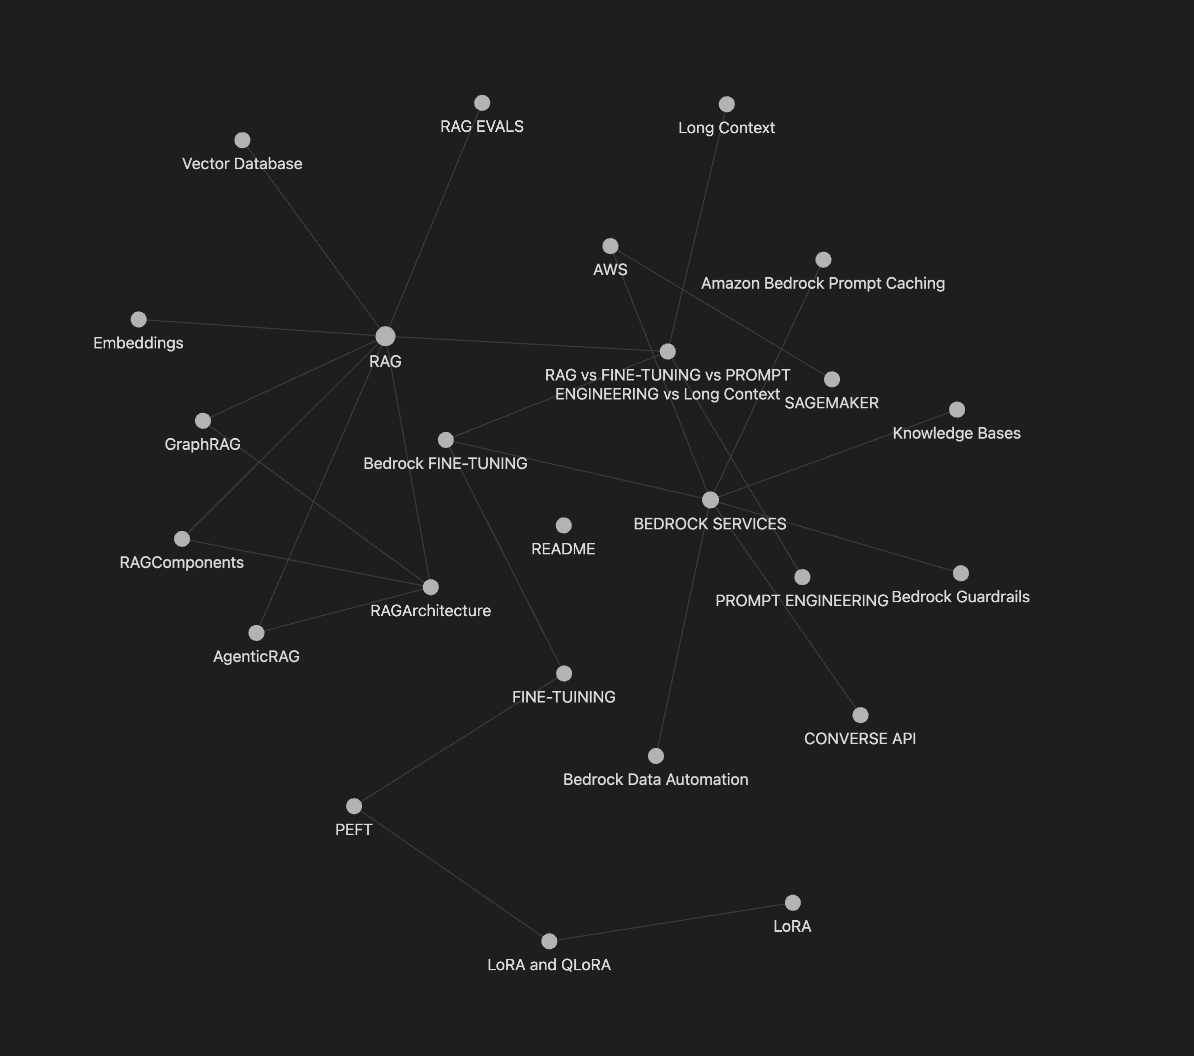
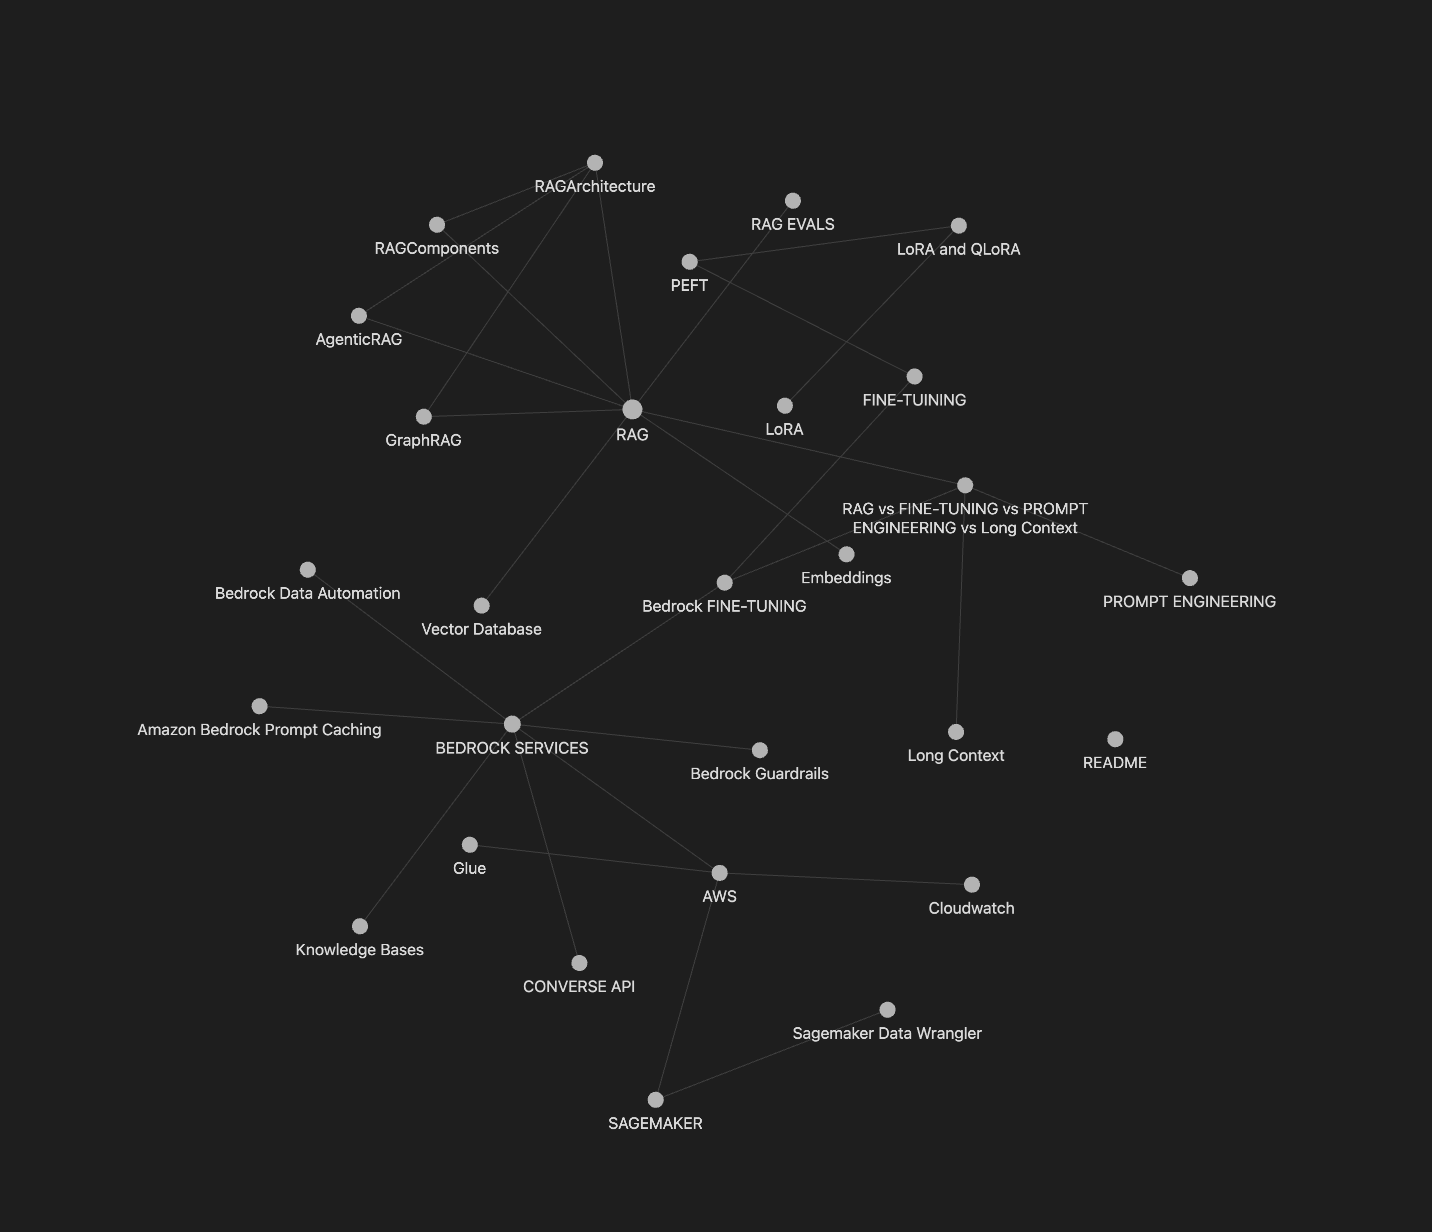
Add Cloudwatch, Glue, SageMaker Data Wrangler; update AWS and SageMaker notes and graph

diff --git a/CLOUD-CONCEPTS/Cloudwatch.md b/CLOUD-CONCEPTS/Cloudwatch.md
@@ -1,0 +1,16 @@
+Main AWS tool for monitoring and observability. Provides metrics for all services in AWS. The metrics from CW can be streamed near real-time through Amazon Kinesis Data Firehose to any internal/external tool of choice including Datadog/Splunk/Sumo Logic/Redshift/Opensearch etc.. You can filter all/or some namespaces.
+**Composite Alarms:** Combine multiple alarms into one to reduce "alarm noise" (e.g., alert only if _both_ CPU and IOPS are high)
+
+Components
+1. Metrics: Tracks variables over time, such as CPU utilization or network traffic. For GenAI, it monitors **token usage** (Input/OutputTokenCount), invocation latency, and error rates
+2. **Logs:** Collects and stores logs from services like Bedrock, Lambda, and SageMaker. **CloudWatch Logs Insights** allows you to query these logs using a purpose-built language to find specific errors or patterns
+3. **Alarms:** Triggers notifications or automated actions (like scaling) when a metric exceeds a threshold.
+4. **Dashboards:** Provides unified visualizations of your metrics and alarms for real-time monitoring
+
+**Role in GenAI Development**
+
+- **Observability:** Essential for tracking model behavior, user feedback, and security events across all application layers.
+- **Performance Tuning:** Helps identify bottlenecks like **Time to First Token (TTFT)** or high latency in RAG pipelines 
+- **Cost Management:** Monitors token consumption to detect anomalies and attribute costs using Bedrock metrics.
+- **Model Evaluation:** Integrates with services like **SageMaker Model Monitor** to detect data or bias drift in production models
+

diff --git a/CLOUD-CONCEPTS/Glue.md b/CLOUD-CONCEPTS/Glue.md
@@ -1,0 +1,6 @@
+1. Serverless system handles discovery and definitions. Is a central metadata repository for the data lakes. Extracts structure from unstructured data
+2. Used for custom ETL jobs, fully managed. Uses Apache Spark under the hood, since it is fully managed no need to manage the Spark cluster.
+
+Components
+1. Glue Crawler/Catalog: Can scan S3 buckets for unstructured data, infer the metadata, this allows Redshift/Athena/Quicksight to query unstrucutred data as structured data. Partitioning in S3 determines how Glue extracts the metadata
+2. Glue Data Quality: Rules can be created manually or automatically. Uses Data Qulaity Definition Language(DQDL)

diff --git a/CLOUD-CONCEPTS/AWS.md b/CLOUD-CONCEPTS/AWS.md
@@ -2,6 +2,9 @@
 
  [[BEDROCK SERVICES]]
  [[SAGEMAKER]]
+ [[Glue]]
+ [[Cloudwatch]]
+ 
  
 	
 

diff --git a/CLOUD-CONCEPTS/Sagemaker Data Wrangler.md b/CLOUD-CONCEPTS/Sagemaker Data Wrangler.md
@@ -1,0 +1,6 @@
+#aws-cloud 
+
+-Visualize data
+-Transform Data
+-Model  to train data
+

diff --git a/CLOUD-CONCEPTS/SAGEMAKER.md b/CLOUD-CONCEPTS/SAGEMAKER.md
@@ -1,0 +1,1 @@
+[[Sagemaker Data Wrangler]]
